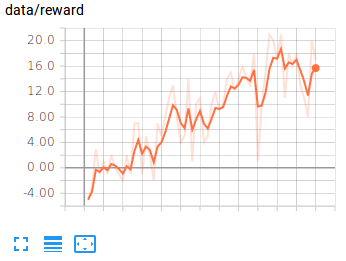
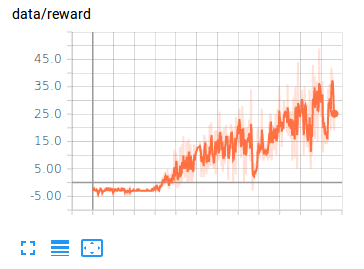
training

Changed region(s): [[0.0, 0.0, 0.9827, 0.7969], [0.0289, 0.8582, 0.289, 0.9808]]

diff --git a/core.py b/core.py
@@ -15,18 +15,11 @@ def get_gaes(rewards, dones, values, next_values, gamma, lamda, normalize):
     return gaes, target
 
 def attention_CNN(x):
-    x = tf.layers.conv2d(inputs=x, filters=16, kernel_size=[4, 4], strides=[2, 2], padding='VALID', activation=tf.nn.relu, kernel_initializer=tf.contrib.layers.xavier_initializer())
-    x = tf.layers.conv2d(inputs=x, filters=16, kernel_size=[4, 4], strides=[2, 2], padding='VALID', activation=tf.nn.relu, kernel_initializer=tf.contrib.layers.xavier_initializer())
+    x = tf.layers.conv2d(inputs=x, filters=12, kernel_size=[3, 3], strides=[2, 2], padding='VALID', activation=tf.nn.relu)
+    x = tf.layers.conv2d(inputs=x, filters=24, kernel_size=[3, 3], strides=[2, 2], padding='VALID', activation=tf.nn.relu)
     
     shape = x.get_shape()
     return x, [s.value for s in shape]
-
-def CNN(x):
-    l1 = tf.layers.conv2d(inputs=x, filters=32, kernel_size=[8, 8], strides=[4, 4], padding='VALID', activation=tf.nn.relu, kernel_initializer=tf.contrib.layers.xavier_initializer())
-    l2 = tf.layers.conv2d(inputs=l1, filters=64, kernel_size=[4, 4], strides=[2, 2], padding='VALID', activation=tf.nn.relu, kernel_initializer=tf.contrib.layers.xavier_initializer())
-    l3 = tf.layers.conv2d(inputs=l2, filters=64, kernel_size=[3, 3], strides=[1, 1], padding='VALID', activation=tf.nn.relu, kernel_initializer=tf.contrib.layers.xavier_initializer())
-    shape = l3.get_shape()
-    return l3, [s.value for s in shape]
 
 def flatten(nnk, shape):
     flatten = tf.reshape(nnk, [-1, shape[1]*shape[2]*shape[3]])
@@ -41,30 +34,28 @@ def query_key_value(nnk, shape):
 def self_attention(query, key, value):
     key_dim_size = float(key.get_shape().as_list()[-1])
     key = tf.transpose(key, perm=[0, 2, 1])
-    QK_D = tf.matmul(query, key) / tf.sqrt(key_dim_size)
-    attention_map = tf.nn.softmax(QK_D)
-    A = tf.matmul(attention_map, value)
+    S = tf.matmul(query, key) / tf.sqrt(key_dim_size)
+    attention_weight = tf.nn.softmax(S)
+    A = tf.matmul(attention_weight, value)
     shape = A.get_shape()
-    return A, attention_map, [s.value for s in shape]
+    return A, attention_weight, [s.value for s in shape]
 
 def output_layer(f_theta, hidden, output_size, activation, final_activation):
     for h in hidden:
         f_theta = tf.layers.dense(inputs=f_theta, units=h, activation=activation, kernel_initializer=tf.contrib.layers.xavier_initializer())
     return tf.layers.dense(inputs=f_theta, units=output_size, activation=final_activation)
 
-def network(x, hidden, output_size, activation, final_activation):
-    nnk, shape = CNN(x)
-    flat = flatten(nnk, shape)
-    action = output_layer(flat, hidden, output_size, activation, final_activation)
-    critic = tf.squeeze(output_layer(flat, hidden, 1, activation, None), axis=1)
-    return action, critic, action
+def layer_normalization(x):
+    feature_shape = x.get_shape()[-1:]
+    mean, variance = tf.nn.moments(x, [2], keep_dims=True)
+    beta = tf.Variable(tf.zeros(feature_shape), trainable=False)
+    gamma = tf.Variable(tf.ones(feature_shape), trainable=False)
+    return gamma * (x - mean) / tf.sqrt(variance + 1e-8) + beta
 
-def residual_layer_normalization(x, inp, shape, residual_time):
+def residual(x, inp, residual_time):
     for i in range(residual_time):
-        x = tf.layers.dense(inputs=x, units=shape[2], activation=tf.nn.relu)
         x = x + inp
-        mean, variance = tf.nn.moments(x, [2], keep_dims=True)
-        x = (x - mean) / tf.sqrt(variance + 1e-8)
+        x = layer_normalization(x)
     return x
 
 def feature_wise_max(x):
@@ -73,29 +64,27 @@ def feature_wise_max(x):
 def relational_network(x, hidden, output_size, activation, final_activation):
     nnk, shape = attention_CNN(x)
     query, key, value, E = query_key_value(nnk, shape)
-    A, attention,shape = self_attention(query, key, value)
-    normalized_residual_x = residual_layer_normalization(A, E, shape, 2)
-    E_hat = feature_wise_max(normalized_residual_x)
-    E_hat = tf.layers.dense(inputs=E_hat, units=256, activation=tf.nn.relu)
-    actor = output_layer(E_hat, hidden, output_size, tf.nn.relu, tf.nn.softmax)
-    critic = tf.squeeze(output_layer(E_hat, hidden, 1, tf.nn.relu, None), axis=1)
-    return actor, critic, attention
+    normalized_query = layer_normalization(query)
+    normalized_key = layer_normalization(key)
+    normalized_value = layer_normalization(value)
+    A, attention_weight, shape = self_attention(normalized_query, normalized_key, normalized_value)
+    E_hat = residual(A, E, 2)
+    max_E_hat = feature_wise_max(E_hat)
+    actor = output_layer(max_E_hat, hidden, output_size, activation, final_activation)
+    critic = tf.squeeze(output_layer(max_E_hat, hidden, 1, tf.nn.relu, None), axis=1)
+    return actor, critic, attention_weight
 
+'''
 if __name__ == '__main__':
     inp = tf.placeholder(tf.float32, shape=[None, 84, 84, 4])
     nnk, shape = attention_CNN(inp)
     query, key, value, E = query_key_value(nnk, shape)
-    A, attention,shape = self_attention(query, key, value)
-    normalized_residual_x = residual_layer_normalization(A, E, shape, 3)
-    E_hat = feature_wise_max(normalized_residual_x)
-    actor = output_layer(E_hat, [256], 3, tf.nn.relu, tf.nn.softmax)
-    critic = tf.squeeze(output_layer(E_hat, [256], 1, tf.nn.relu, None), axis=1)
-
-    '''
-    query, key, value = query_key_value(nnk, shape)
-    A, attention, shape = self_attention(query, key, value)
-    normalized_residual_x = residual_layer_normalization(A, shape, 2)
-    E_hat = feature_wise_max(normalized_residual_x)
-    actor = output_layer(E_hat, [256], 3, tf.nn.relu, tf.nn.softmax)
-    critic = tf.squeeze(output_layer(E_hat, [256], 1, tf.nn.relu, None), axis=1)
-    '''
+    normalized_query = layer_normalization(query)
+    normalized_key = layer_normalization(key)
+    normalized_value = layer_normalization(value)
+    A, attention_weight, shape = self_attention(normalized_query, normalized_key, normalized_value)
+    E_hat = residual(A, E, 4)
+    max_E_hat = feature_wise_max(E_hat)
+    actor = output_layer(max_E_hat, [256], 3, tf.nn.relu, tf.nn.softmax)
+    critic = tf.squeeze(output_layer(max_E_hat, [256], 1, tf.nn.relu, None). axis=1)
+'''

diff --git a/main.py b/main.py
@@ -16,7 +16,7 @@ class Relational_Proximal_Policy_Optimization:
         self.v_lr = 0.00025
         self.ppo_eps = 0.2
         self.epoch = 3
-        self.num_worker = 32
+        self.num_worker = 16
         self.n_step = 256
         self.gamma = 0.99
         self.batch_size = 32
@@ -109,7 +109,7 @@ class Relational_Proximal_Policy_Optimization:
 
                 attention = np.stack(attention)[0]
                 attention = np.sum(attention, axis=0)
-                attention = np.reshape(attention, [9, 9])
+                attention = np.reshape(attention, [int(np.sqrt(attention.shape[0])), int(np.sqrt(attention.shape[0]))])
                 plt.imshow(attention, cmap='gray')
                 plt.show(block=False)
                 plt.pause(0.001)
@@ -142,7 +142,7 @@ class Relational_Proximal_Policy_Optimization:
         works, parent_conns, child_conns = [], [], []
         for idx in range(self.num_worker):
             parent_conn, child_conn = Pipe()
-            work = Environment.Environment(True if idx == 0 else False, idx, child_conn)
+            work = Environment.Environment(False if idx == 0 else False, idx, child_conn)
             work.start()
             works.append(work)
             parent_conns.append(parent_conn)

diff --git a/README.md b/README.md
@@ -9,9 +9,22 @@ The Reinforcement Learning Algorithm is [Proximal Policy Optimization](https://a
 * This paper requires heavy computation power.
 * Left Figure is the map of attention which is produced by self-attention.
 * Though the paper developed 100 environments for experiment, the implementer of this repository created only 16 environments with the limitation of computer resources. So sometimes it's exactly the performance and sometimes it's not.
-* If you want to see more significant attention map, just control CNN function to have less strides and more filters. In this repository, 84, 84 images are processed to have 9, 9 because of my computation limit.
+* If you want to see more significant attention map, just control CNN function to have less strides and more filters. In this repository, 84, 84 images are processed to have 19, 19 because of my computation limit.
+
+## Initial Training status
 
 <div align="center">
-  <img src="source/out.gif" width="100%" height='400'>
+  <img src="source/before_train.gif" width="50%" height='300'>
+</div>
+
+## During Training
+
+<div align="center">
+  <img src="source/after_train.gif" width="50%" height='300'>
+</div>
+
+## Tensorboard
+
+<div align="center">
   <img src="source/out.png" width="50%" height='300'>
 </div>
